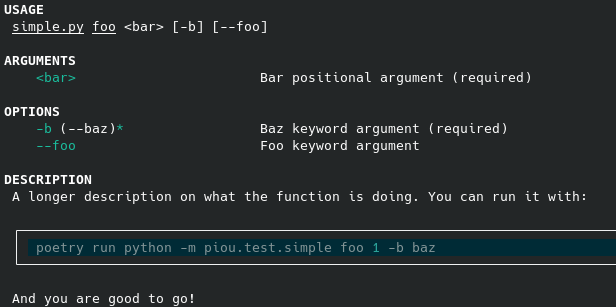
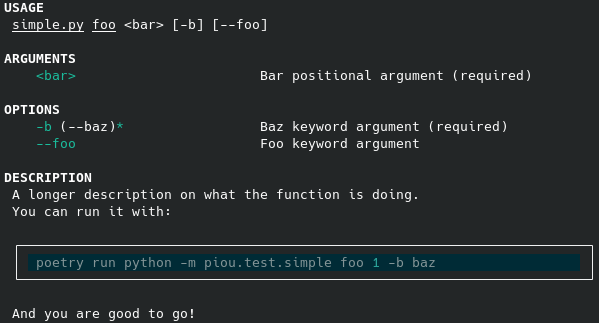
adding processor decorator + fix issue with markdown

diff --git a/piou/command.py b/piou/command.py
@@ -72,6 +72,22 @@ class Command:
                 _keyword_args.add(_keyword_arg)
 
 
+def get_options(f) -> list[CommandOption]:
+    """Extracts the options from a function arguments"""
+    options: list[CommandOption] = []
+    defaults: list[Optional[Any]] = get_default_args(f)
+
+    for (param_name, param_type), option in zip(get_type_hints(f).items(),
+                                                defaults):
+        if not isinstance(option, CommandOption):
+            continue
+
+        option.name = param_name
+        option.data_type = param_type
+        options.append(option)
+    return options
+
+
 @dataclass
 class CommandGroup:
     name: Optional[str] = None
@@ -127,39 +143,43 @@ class CommandGroup:
                                          group.name)
         self._command_groups[group.name] = group
 
-    def add_command(self, cmd: str, f, help: str = None, description: str = None):
-        options: list[CommandOption] = []
-        defaults: list[Optional[Any]] = get_default_args(f)
+    def add_command(self, f, cmd: str = None, help: str = None, description: str = None):
+        cmd_name = cmd or f.__name__
+        if cmd_name in self.commands:
+            raise DuplicatedCommandError(f'Duplicated command found for {cmd_name!r}',
+                                         cmd_name)
 
-        for (param_name, param_type), option in zip(get_type_hints(f).items(),
-                                                    defaults):
-            if not isinstance(option, CommandOption):
-                continue
+        self._commands[cmd_name] = Command(name=cmd_name,
+                                           fn=f,
+                                           options=get_options(f),
+                                           help=help,
+                                           description=description or getdoc(f))
 
-            option.name = param_name
-            option.data_type = param_type
-            options.append(option)
-
-        self._commands[cmd] = Command(name=cmd,
-                                      fn=f,
-                                      options=options,
-                                      help=help,
-                                      description=description or getdoc(f))
-
-    def command(self, cmd: str, help: str = None, description: str = None):
-        if cmd in self.commands:
-            raise DuplicatedCommandError(f'Duplicated command found for {cmd!r}',
-                                         cmd)
+    def command(self, cmd: str = None, help: str = None, description: str = None):
 
         def _command(f):
             @wraps(f)
             def wrapper(*args, **kwargs):
                 return f(*args, **kwargs)
 
-            self.add_command(cmd, f, help=help, description=description)
+            self.add_command(f, cmd=cmd, help=help, description=description)
             return wrapper
 
         return _command
+
+    def processor(self):
+        def _processor(f):
+            @wraps(f)
+            def wrapper(*args, **kwargs):
+                return f(*args, **kwargs)
+
+            options = get_options(f)
+            for option in options:
+                self._options.append(option)
+            self.set_options_processor(f)
+            return wrapper
+
+        return _processor
 
     def run_with_args(self, *args, parent_args: ParentArgs = None):
 

diff --git a/piou/formatter/rich_formatter.py b/piou/formatter/rich_formatter.py
@@ -1,6 +1,6 @@
 import sys
 from dataclasses import dataclass, field
-from typing import Optional
+from typing import Optional, Union
 
 from rich.console import Console, RenderableType
 from rich.markdown import Markdown
@@ -78,6 +78,9 @@ class RichTitles(Titles):
     OPTIONS = f'[bold]{Titles.OPTIONS}[/bold]'
 
 
+MIN_MARKDOWN_SIZE: int = 75
+
+
 @dataclass
 class RichFormatter(Formatter):
     _console: Console = field(init=False,
@@ -94,6 +97,15 @@ class RichFormatter(Formatter):
 
     def __post_init__(self):
         self.print_fn = self._console.print
+
+    def _print_description(self, item: Union[CommandGroup, Command]):
+        description = item.description or item.help
+        if description:
+            self.print_fn()
+            self.print_fn(RichTitles.DESCRIPTION)
+            _max_width = max(len(x) for x in description.split('\n'))
+            self.print_fn(pad(Markdown('  \n'.join(description.split('\n')), code_theme=self.code_theme)),
+                          width=max(_max_width, MIN_MARKDOWN_SIZE))
 
     def _print_options(self, options: list[CommandOption]):
         self.print_rows([(fmt_option(opt, show_full=True, color=self.option_color),
@@ -122,12 +134,7 @@ class RichFormatter(Formatter):
         self.print_fn(RichTitles.AVAILABLE_CMDS)
         self.print_rows([(f' {self._color_cmd(_command.name or "")}', _command.help) for _command in
                          group.commands.values()])
-
-        description = group.description or group.help
-        if description:
-            self.print_fn()
-            self.print_fn(RichTitles.DESCRIPTION)
-            self.print_fn(pad(Markdown(description, code_theme=self.code_theme)))
+        self._print_description(group)
 
     def print_cmd_help(self,
                        command: Command,
@@ -159,12 +166,7 @@ class RichFormatter(Formatter):
             self.print_fn('\n' + RichTitles.GLOBAL_OPTIONS)
             self._print_options(global_options)
 
-        description = command.description or command.help
-
-        if description:
-            self.print_fn()
-            self.print_fn(RichTitles.DESCRIPTION)
-            self.print_fn(pad(Markdown(description, code_theme=self.code_theme)))
+        self._print_description(command)
 
     def print_cmd_group_help(self,
                              group: CommandGroup,
@@ -213,10 +215,7 @@ class RichFormatter(Formatter):
             self._print_options(global_options)
             self.print_fn()
 
-        description = group.description or group.help
-        if description:
-            self.print_fn(RichTitles.DESCRIPTION)
-            self.print_fn(pad(Markdown(description, code_theme=self.code_theme)))
+        self._print_description(group)
 
     def print_cmd_error(self, available_commands: list[str]):
         _available_cmds = ', '.join(available_commands)

diff --git a/tests/test_cli.py b/tests/test_cli.py
@@ -442,3 +442,30 @@ def test_run_group_command_pass_global_args():
     assert called
     assert processor_called
     assert sub_processor_called
+
+
+def test_option_processor():
+    from piou import Cli, Option
+
+    cli = Cli(description='A CLI tool',
+              propagate_options=True)
+
+    processor_called = False
+
+    @cli.processor()
+    def processor(
+        quiet: bool = Option(False, '-q', '--quiet', help='Do not output any message'),
+        verbose: bool = Option(False, '--verbose', help='Increase verbosity')
+    ):
+        nonlocal processor_called
+        processor_called = True
+
+        assert quiet is True
+        assert verbose is False
+
+    @cli.command()
+    def test(**kwargs):
+        assert kwargs['quiet']
+
+    cli._group.run_with_args('--quiet', 'test')
+    assert processor_called

diff --git a/piou/test/__main__.py b/piou/test/__main__.py
@@ -6,15 +6,12 @@ from piou.formatter import RichFormatter
 cli = Cli(description="A Cli tool",
           formatter=RichFormatter(show_default=True))
 
-cli.add_option('-q', '--quiet', help='Do not output any message')
-cli.add_option('--verbose', help='Increase verbosity')
 
-
-def processor(quiet: bool, verbose: bool):
+@cli.processor()
+def processor(quiet: bool = Option(False, '-q', '--quiet', help='Do not output any message'),
+              verbose: bool = Option(False, '--verbose', help='Increase verbosity')
+              ):
     print(f'Processing {quiet=} and {verbose=}')
-
-
-cli.set_options_processor(processor)
 
 
 @cli.command(cmd='foo',

diff --git a/piou/cli.py b/piou/cli.py
@@ -67,8 +67,11 @@ class Cli:
             self.formatter.print_count_error(e.expected_count, e.count, e.cmd)
             return
 
-    def command(self, cmd: str, help: str = None, description: str = None):
+    def command(self, cmd: str = None, help: str = None, description: str = None):
         return self._group.command(cmd=cmd, help=help, description=description)
+
+    def processor(self):
+        return self._group.processor()
 
     def add_option(self, *args, help: str = None, data_type: Any = bool, default: Any = False):
         self._group.add_option(*args, help=help, data_type=data_type, default=default)

diff --git a/README.md b/README.md
@@ -196,6 +196,18 @@ def processor(verbose: bool):
 cli.set_options_processor(processor)
 ``` 
 
+You can also use the decorator syntax:
+
+```python
+from piou import Cli, Option
+
+cli = Cli(description='A CLI tool')
+
+@cli.processor()
+def processor(verbose: bool = Option(False, '--verbose', help='Increase verbosity')):
+    print(f'Processing {verbose=}')
+```
+
 By default, when a processor is set, the global arguments will not be passed downstream.  
 If you still want them to be passed to the functions by setting  
 
@@ -223,7 +235,7 @@ for example).
 
 ## Complete example
 
-You can try a more complete example by running `python -m piou.test`
+You can try a more complete example by running `python -m piou.test -h`
 
 
 ## Moving from `argparse`  

diff --git a/CHANGELOG.md b/CHANGELOG.md
@@ -1,8 +1,8 @@
 # Changelog
 
-## [0.5.5] 11-01-2022
+## [0.6.0] 13-01-2022
 
 
-### INTERNALS:
+### NEW:
 
-- Bumping `rich` version
+- You can now use `@cli.processor()` to set an option processor.
